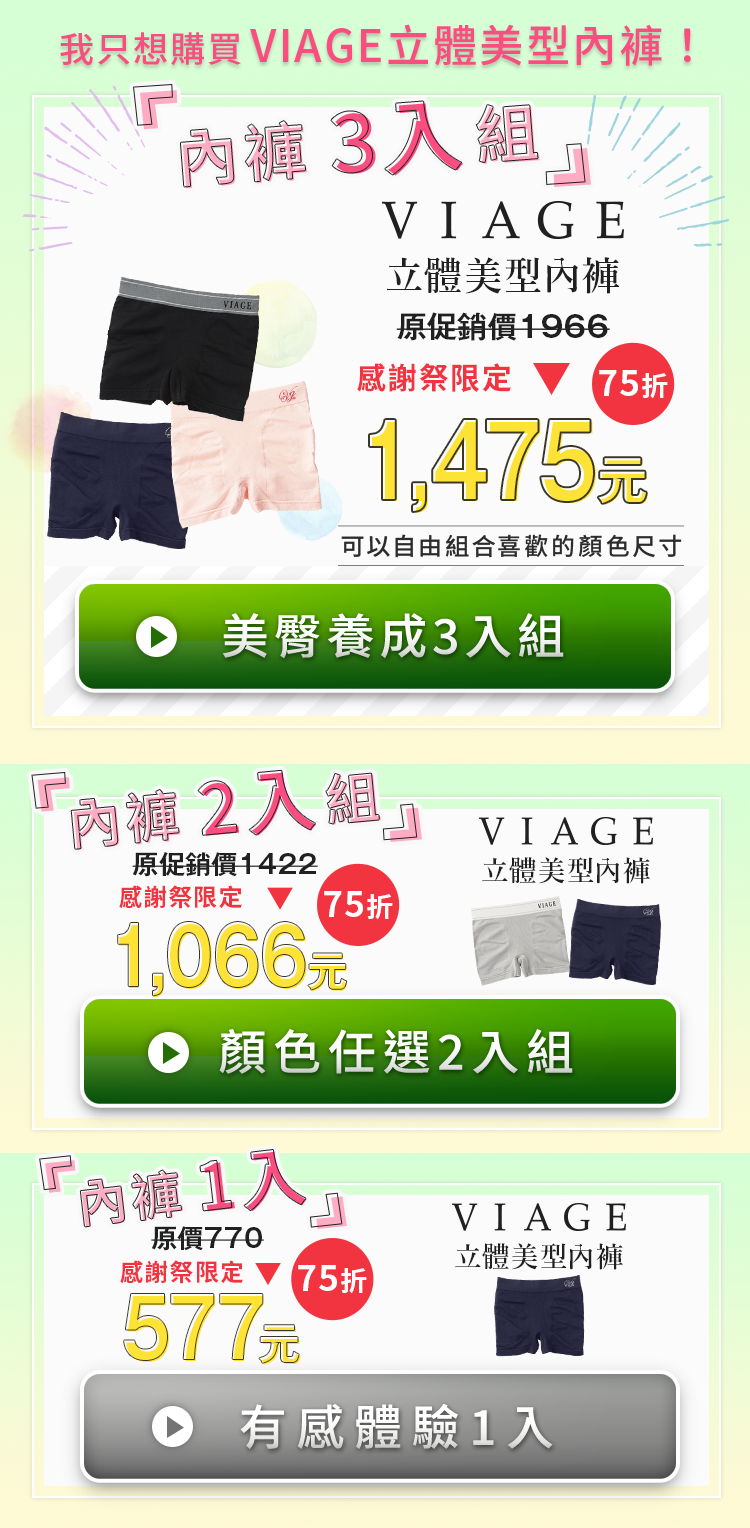
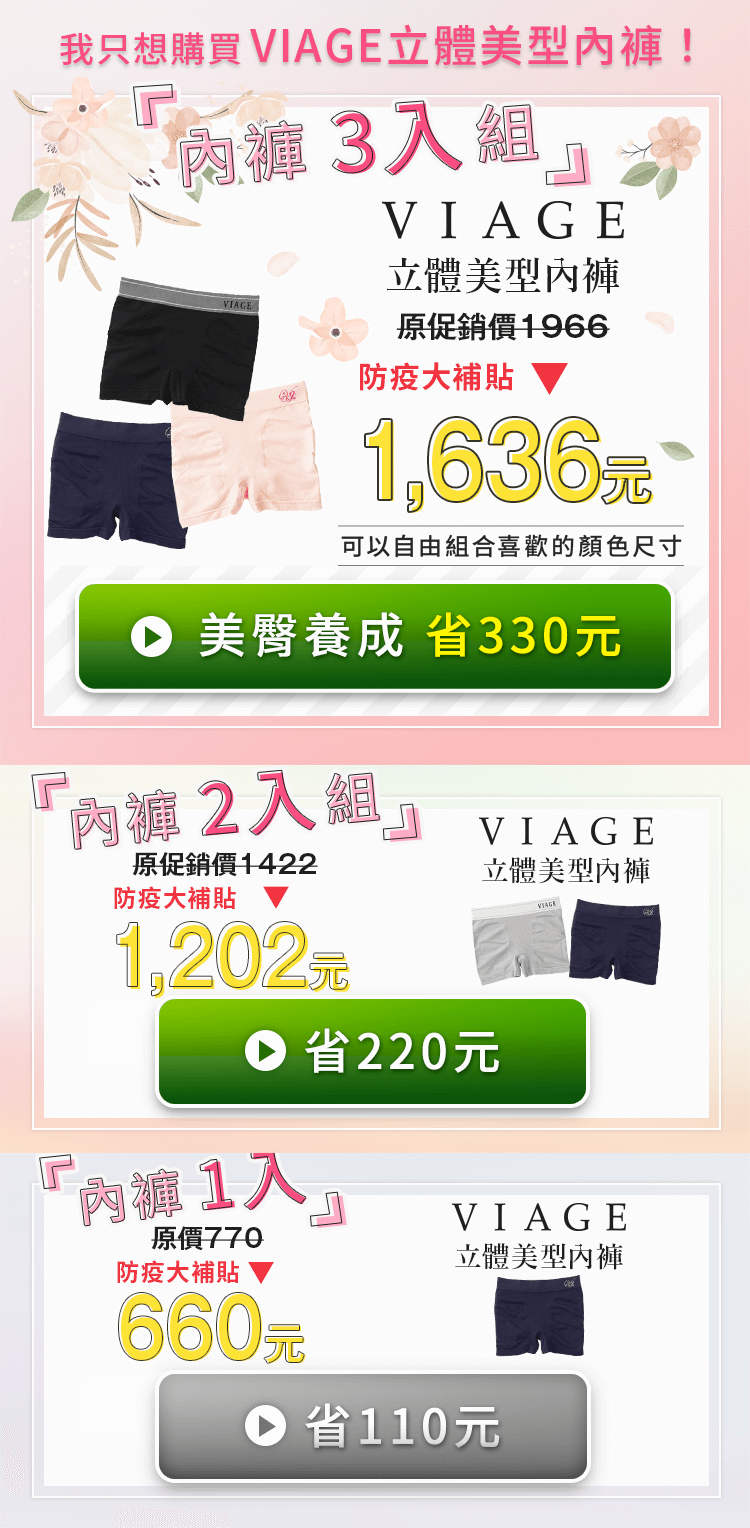
20210804_covid sale

diff --git a/index.html b/index.html
@@ -2,7 +2,7 @@
 <html>
 
 <head>
-    <title>Viage夏日SALE 75折｜內衣+內褲老顧客獨享優惠！CP值超高美胸美臀一次到位👙</title>
+    <title>Viage防疫現金折扣省1300｜整套保養一次到位👙自信走出門</title>
     <meta http-equiv="Content-Type" content="text/html; charset=utf-8">
     <!-- 編集削除禁止※スマホ最適化※編集削除禁止 -->
     <meta name="viewport" content="width=device-width, initial-scale=1, maximum-scale=1, user-scalable=yes" />
